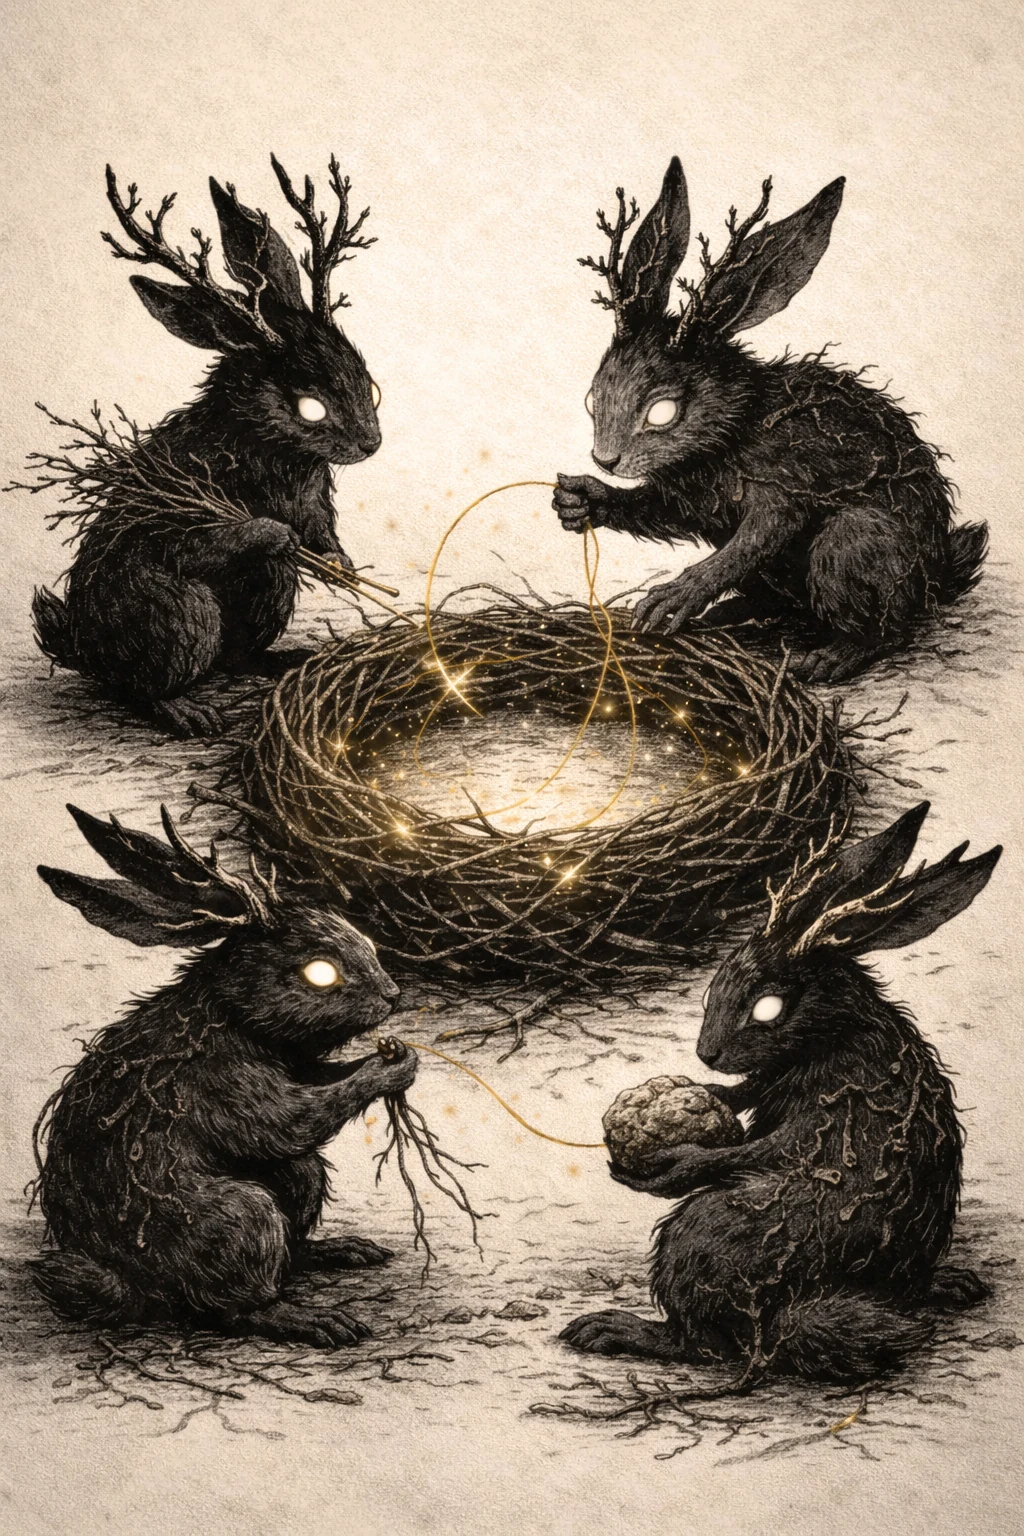
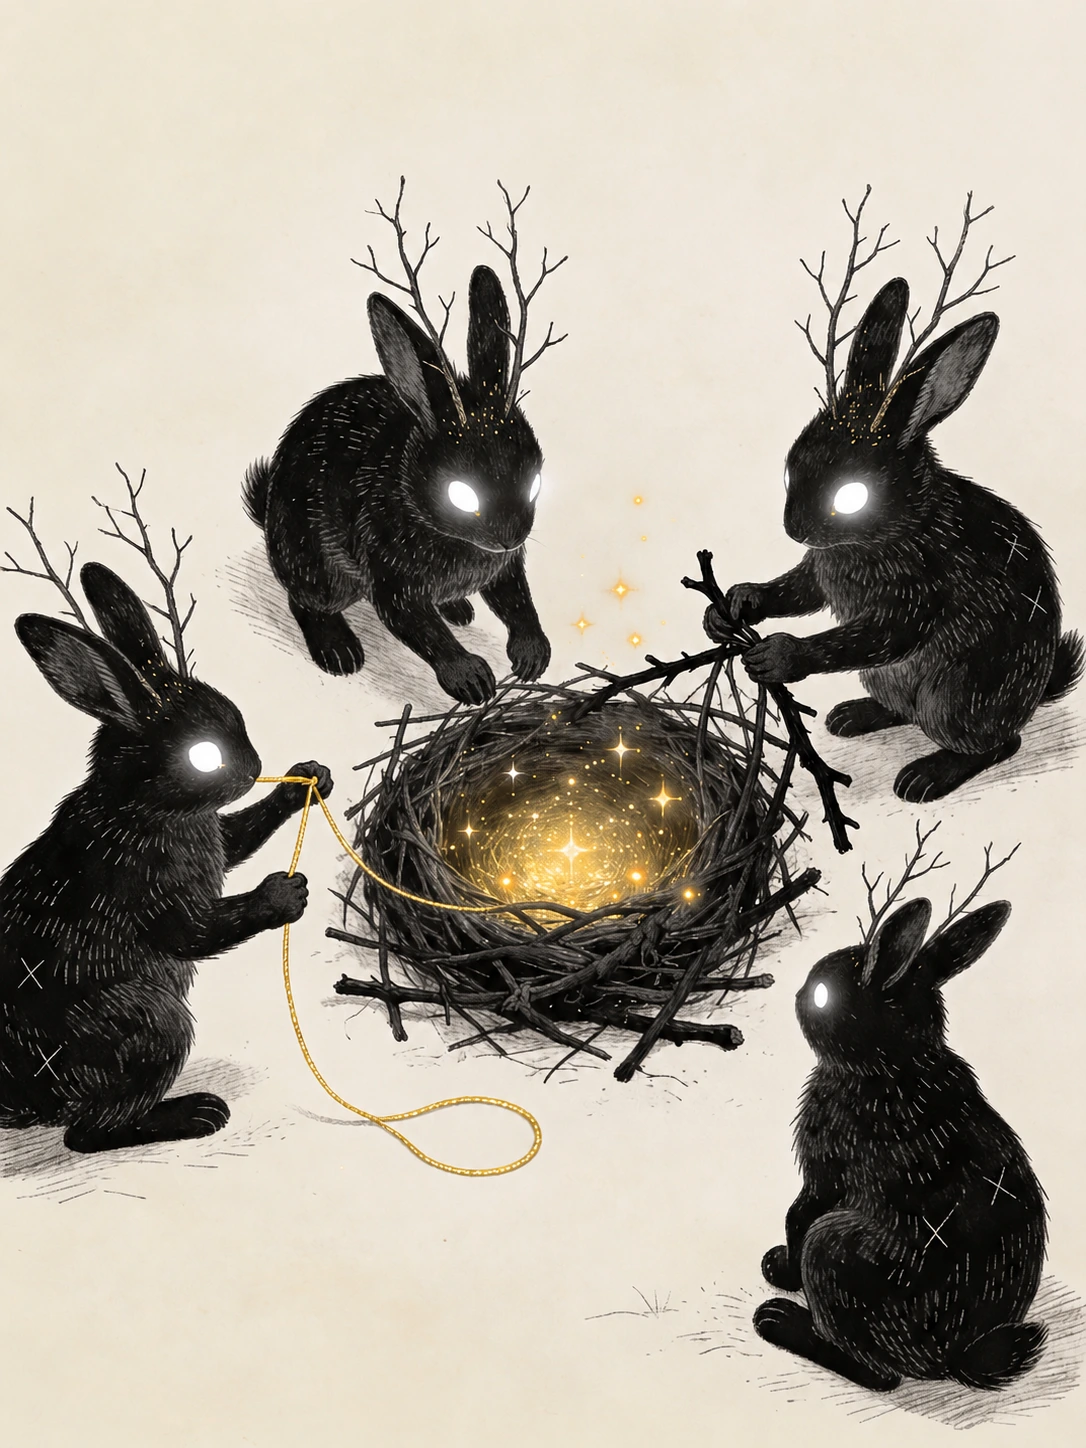
feat: update threshold card art batch

diff --git a/assets/js/data/cards.js b/assets/js/data/cards.js
@@ -643,7 +643,7 @@ const RAW_CARDS = [
     message:
       "Ты уже на своём месте, и это не случайно. Тебе есть на что опереться, и есть кому следовать за тобой. Веди за собой, ведь ты знаешь дорогу.",
     shadow: "Ты всё ещё ждёшь разрешения занять своё место. Но кто должен его дать, если лес уже признал тебя?",
-    image: "./assets/images/cards/tron_korney.webp",
+    image: "./assets/images/cards/stareyshina_lesa.webp",
   },
   {
     id: "wyrd_062",

diff --git a/sw.js b/sw.js
@@ -1,5 +1,5 @@
 const BUILD_ID = new URLSearchParams(self.location.search).get("v") || "dev";
-const CACHE_VERSION = "cards-20260602-tuman1";
+const CACHE_VERSION = "cards-20260607-batch-threshold";
 const CACHE_NAME = `wyrd-runtime-${BUILD_ID}-${CACHE_VERSION}`;
 const RUNTIME_CACHEABLE_DESTINATIONS = new Set(["image", "audio", "video", "font"]);
 
